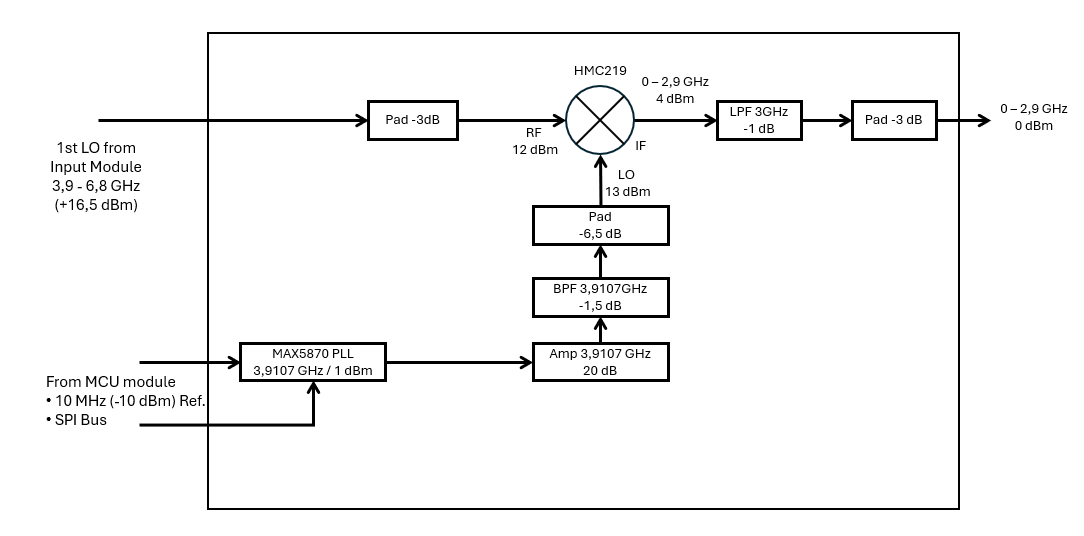
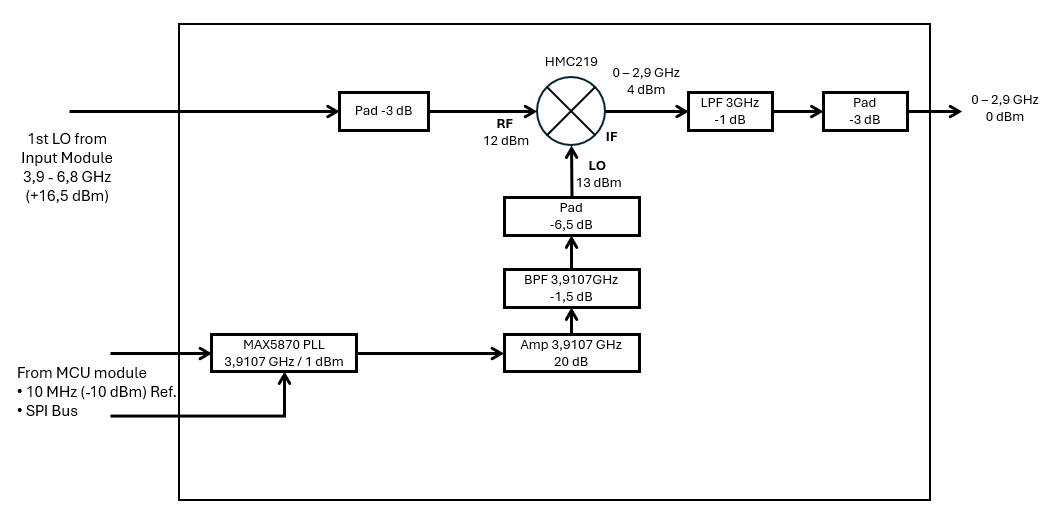
Refactor code structure for improved readability and maintainability

Changed region(s): [[0.0, 0.0617, 0.9934, 0.9865], [0.1552, 0.0308, 0.8692, 0.0925]]

diff --git a/docs/architecture/07-3cm-module.md b/docs/architecture/07-3cm-module.md
@@ -68,8 +68,8 @@ Thus the ADF4351 runs at a **fixed 310.7 MHz**, simplifying control and calibr
 
 ## Block diagram
 
-```
 ![3cm TG architecture](./images/3cm-architecture.png)
+
 ```
 
 ---
@@ -81,10 +81,10 @@ Thus the ADF4351 runs at a **fixed 310.7 MHz**, simplifying control and calibr
 | **LO path**                   |                       |         |         |
 | SA LO output                  | 4.905–5.905 GHz       |   0 dB  | +16 dBm |
 | LO isolator                   | 4.905–5.905 GHz       |  –1 dB  | +15 dBm |
-| LO doubler input              | 4.905–5.905 GHz       |   0 dB  | +15 dBm |
-| LO doubler (HMC204)           | 9.81–11.81 GHz   | –18 dB  |  –3 dBm |
-| LO amplifier                  | 9.81–11.81 GHz        | +18 dB  | +15 dBm |
-| LO pad to mixer LO port       | 9.81–11.81 GHz        |  –2 dB  | +13 dBm |
+| LO Switch (PE42540)           | 4.905–5.905 GHz       |  -1 dB  | +14 dBm
+| LO doubler input              | 4.905–5.905 GHz       |   0 dB  | +14 dBm |
+| LO doubler (HMC204)           | 9.81–11.81 GHz        | –17 dB  |  –3 dBm |
+| LO amplifier                  | 9.81–11.81 GHz        | +15 dB  | +12 dBm |
 | LO at mixer LO port           | 9.81–11.81 GHz        |   0 dB  | +13 dBm |
 |                               |                       |         |         |
 | **IF path**                   |                       |         |         |
